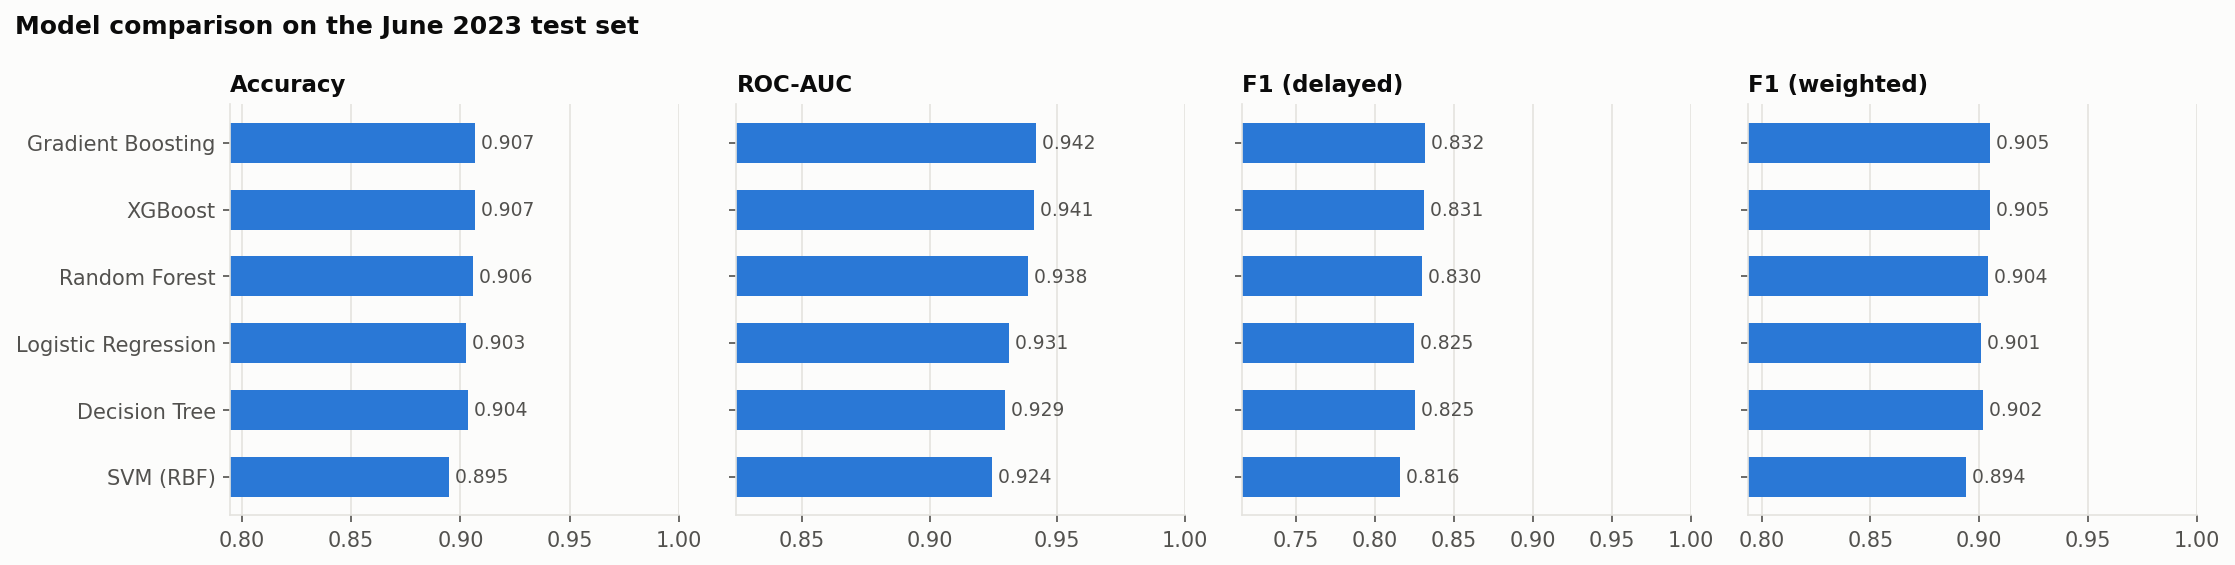
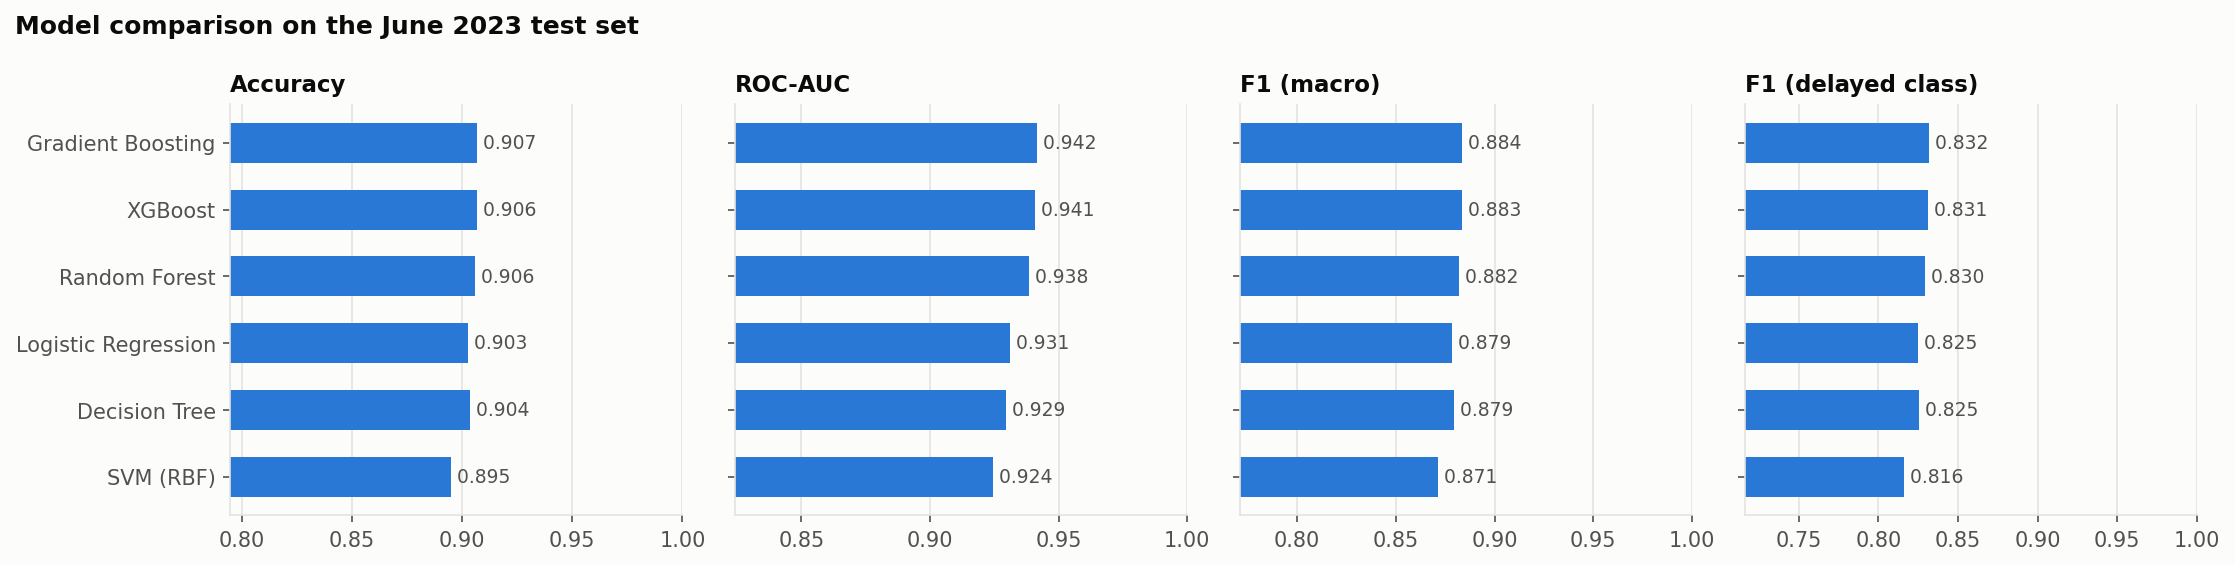
Report macro-F1 alongside delayed-class F1 in comparison chart

diff --git a/src/evaluate.py b/src/evaluate.py
@@ -80,8 +80,8 @@ def plot_pr_curves(y_true, scores_by_model: dict, name="pr_curves"):
 
 
 def plot_model_comparison(results: pd.DataFrame, name="model_comparison"):
-    metrics = ["accuracy", "roc_auc", "f1", "f1_weighted"]
-    labels = ["Accuracy", "ROC-AUC", "F1 (delayed)", "F1 (weighted)"]
+    metrics = ["accuracy", "roc_auc", "f1_macro", "f1"]
+    labels = ["Accuracy", "ROC-AUC", "F1 (macro)", "F1 (delayed class)"]
     res = results.sort_values("roc_auc")
     fig, axes = plt.subplots(1, 4, figsize=(15, 3.8), sharey=True)
     for ax, m, label in zip(axes, metrics, labels):
